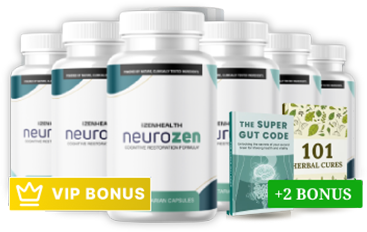
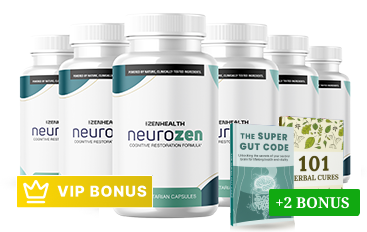
10112025

diff --git a/assets/css/style.css b/assets/css/style.css
@@ -566,7 +566,7 @@ main canvas#neural-canvas {
     }
 }
 .area-kits .container ul a .main img {
-    height: 190px;
+    height: 240px;
     margin: 0 auto;
     -o-object-fit: contain;
     object-fit: contain;
